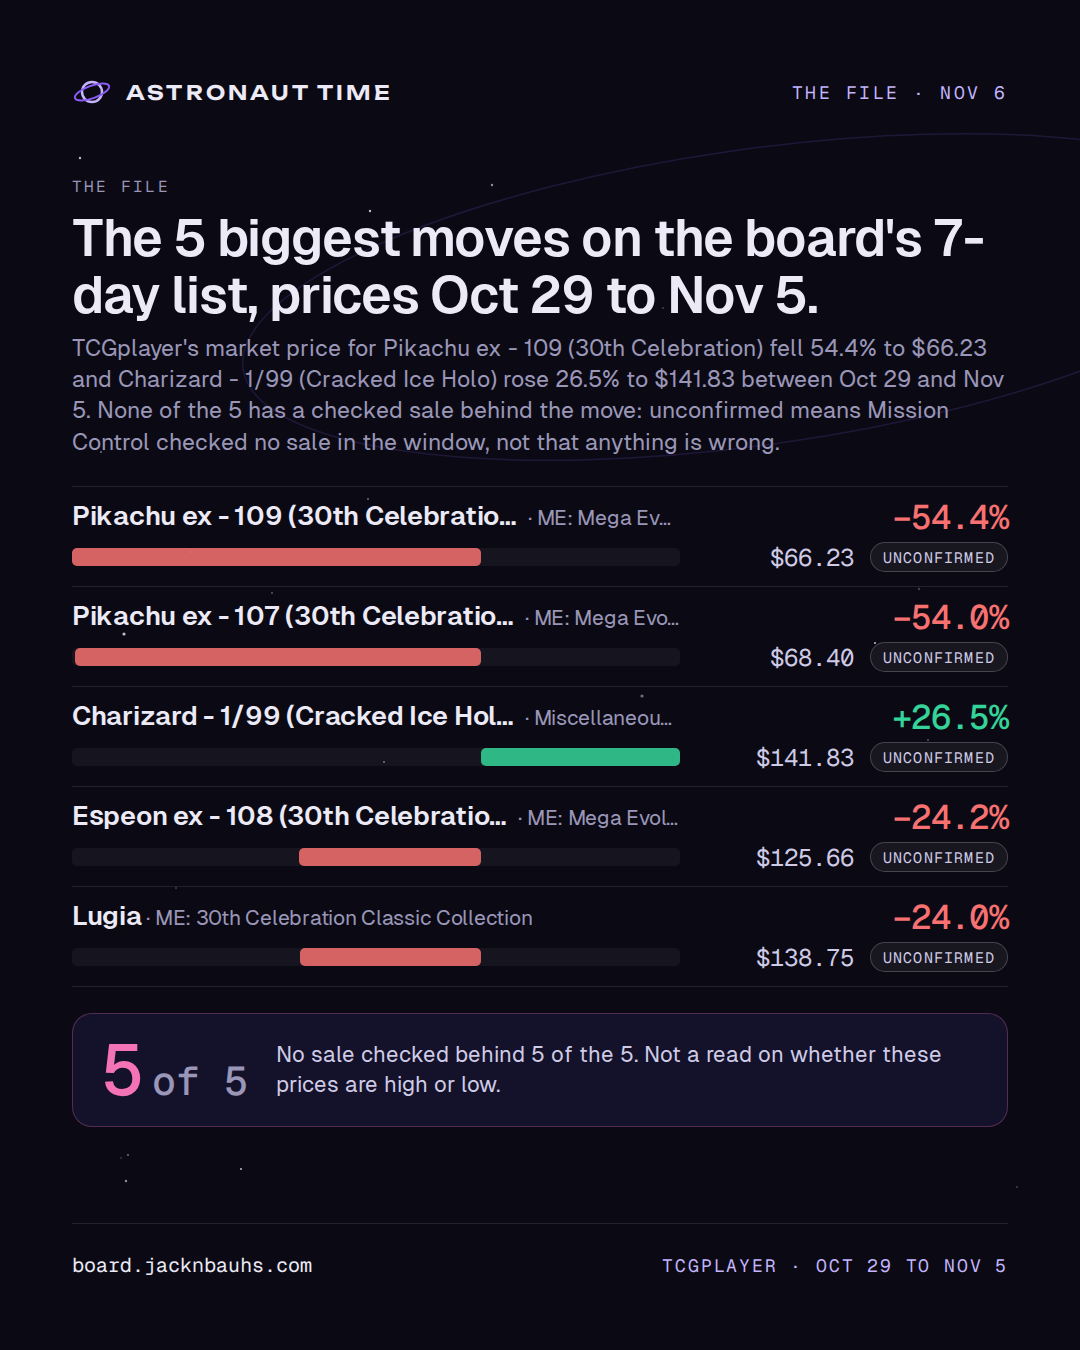
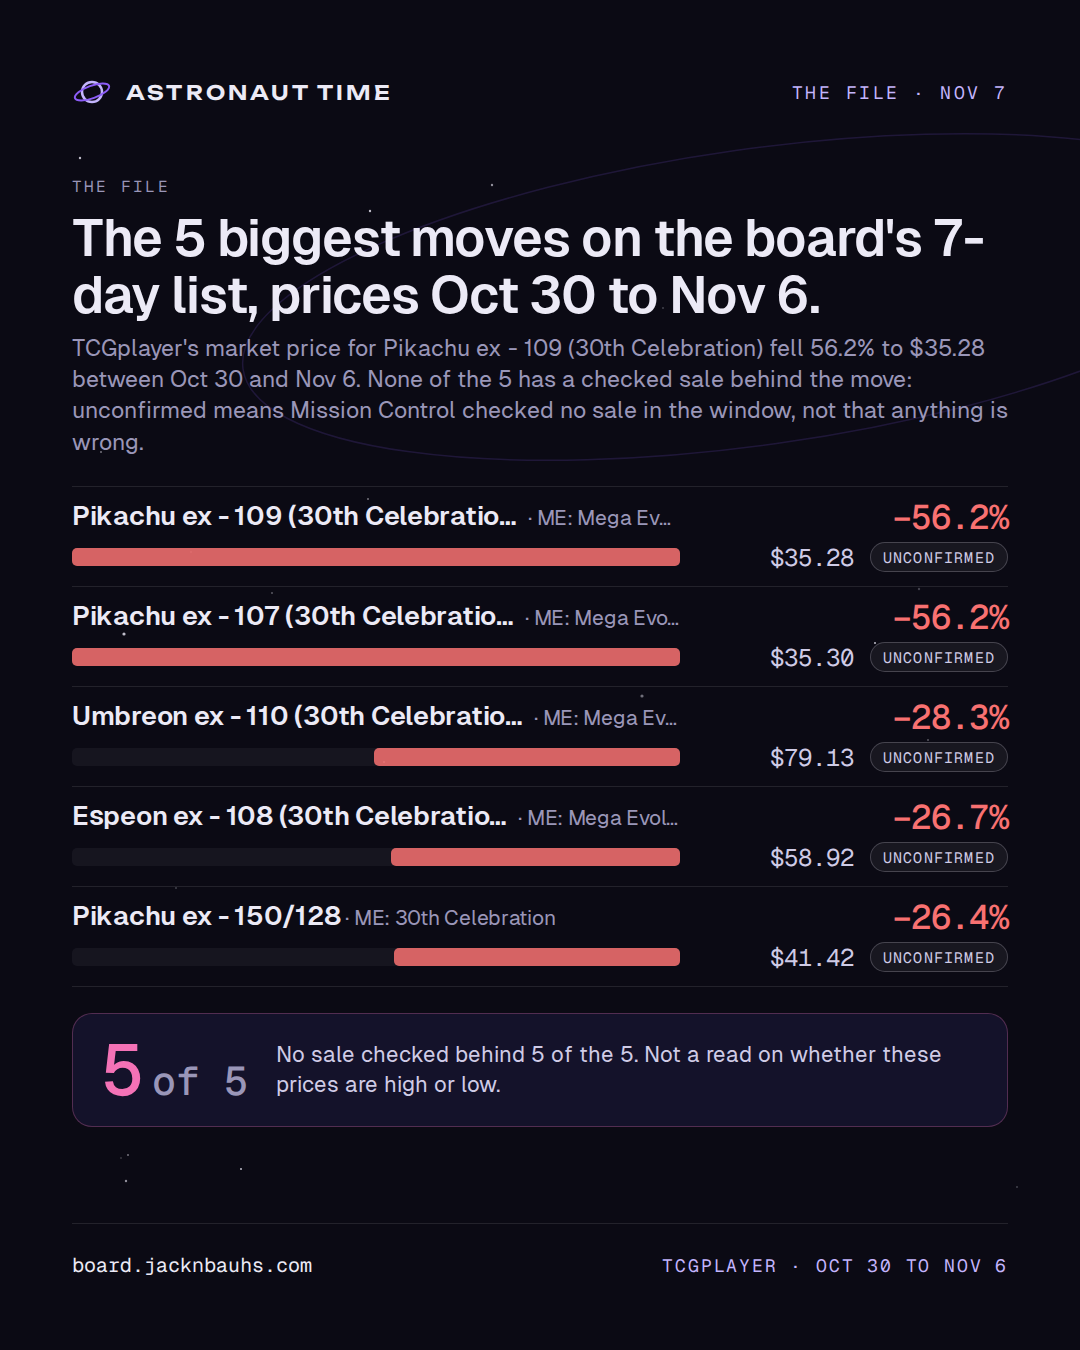
Share kit: render 2026-11-07

diff --git a/card.html b/card.html
@@ -10,14 +10,14 @@
 <meta property="og:url" content="https://board.jacknbauhs.com/card.html">
 <meta property="og:type" content="website">
 <meta property="og:site_name" content="Astronaut Time">
-<meta property="og:image" content="https://board.jacknbauhs.com/assets/og.png?v=2026-11-06">
+<meta property="og:image" content="https://board.jacknbauhs.com/assets/og.png?v=2026-11-07">
 <meta property="og:image:width" content="1200">
 <meta property="og:image:height" content="630">
 <meta property="og:image:alt" content="Mission Control by Astronaut Time: the card market, with the fake sales taken out.">
 <meta name="twitter:card" content="summary_large_image">
 <meta name="twitter:title" content="Card · Mission Control · Astronaut Time">
 <meta name="twitter:description" content="The card market, with the fake sales taken out.">
-<meta name="twitter:image" content="https://board.jacknbauhs.com/assets/og.png?v=2026-11-06">
+<meta name="twitter:image" content="https://board.jacknbauhs.com/assets/og.png?v=2026-11-07">
 <meta name="theme-color" content="#0B0A14">
 <link rel="icon" href="assets/favicon.svg" type="image/svg+xml">
 <link rel="preconnect" href="https://fonts.googleapis.com">

diff --git a/404.html b/404.html
@@ -10,14 +10,14 @@
 <meta property="og:url" content="https://board.jacknbauhs.com/">
 <meta property="og:type" content="website">
 <meta property="og:site_name" content="Astronaut Time">
-<meta property="og:image" content="https://board.jacknbauhs.com/assets/og.png?v=2026-11-06">
+<meta property="og:image" content="https://board.jacknbauhs.com/assets/og.png?v=2026-11-07">
 <meta property="og:image:width" content="1200">
 <meta property="og:image:height" content="630">
 <meta property="og:image:alt" content="Mission Control by Astronaut Time: the card market, with the fake sales taken out.">
 <meta name="twitter:card" content="summary_large_image">
 <meta name="twitter:title" content="Mission Control · Astronaut Time">
 <meta name="twitter:description" content="The card market, with the fake sales taken out.">
-<meta name="twitter:image" content="https://board.jacknbauhs.com/assets/og.png?v=2026-11-06">
+<meta name="twitter:image" content="https://board.jacknbauhs.com/assets/og.png?v=2026-11-07">
 <meta name="theme-color" content="#0B0A14">
 <link rel="icon" href="/assets/favicon.svg" type="image/svg+xml">
 <link rel="preconnect" href="https://fonts.googleapis.com">

diff --git a/index.html b/index.html
@@ -10,14 +10,14 @@
 <meta property="og:url" content="https://board.jacknbauhs.com/">
 <meta property="og:type" content="website">
 <meta property="og:site_name" content="Astronaut Time">
-<meta property="og:image" content="https://board.jacknbauhs.com/assets/og.png?v=2026-11-06">
+<meta property="og:image" content="https://board.jacknbauhs.com/assets/og.png?v=2026-11-07">
 <meta property="og:image:width" content="1200">
 <meta property="og:image:height" content="630">
 <meta property="og:image:alt" content="Mission Control by Astronaut Time: the card market, with the fake sales taken out.">
 <meta name="twitter:card" content="summary_large_image">
 <meta name="twitter:title" content="Mission Control · Astronaut Time">
 <meta name="twitter:description" content="The card market, with the fake sales taken out.">
-<meta name="twitter:image" content="https://board.jacknbauhs.com/assets/og.png?v=2026-11-06">
+<meta name="twitter:image" content="https://board.jacknbauhs.com/assets/og.png?v=2026-11-07">
 <meta name="theme-color" content="#0B0A14">
 <link rel="icon" href="assets/favicon.svg" type="image/svg+xml">
 <link rel="preconnect" href="https://fonts.googleapis.com">

diff --git a/share/out/captions.md b/share/out/captions.md
@@ -1,22 +1,22 @@
-# Captions, board data of 2026-11-06
+# Captions, board data of 2026-11-07
 
 One block per image. Caption first, alt text second. Plain facts, the source and the board link; nothing here is a buy.
 
 ## Before you post
 
-- ✅ Prices are from Nov 5, 2026.
+- ✅ Prices are from Nov 6, 2026.
 - ⚠ All 10 on the 7-day list are unconfirmed: no checked sale behind any. Keep "unconfirmed" in the post and call them price moves, not sales.
 - ⚠ All 10 on the since-yesterday list are unconfirmed: no checked sale behind any. Keep "unconfirmed" in the post and call them price moves, not sales.
 
-## file-2026-11-06-cover.png
+## file-2026-11-07-cover.png
 
-The File, Nov 6: The 5 biggest moves on the board's 7-day list, prices Oct 29 to Nov 5. TCGplayer's market price for Pikachu ex - 109 (30th Celebration) fell 54.4% to $66.23 and Charizard - 1/99 (Cracked Ice Holo) rose 26.5% to $141.83 between Oct 29 and Nov 5. None of the 5 has a checked sale behind the move: unconfirmed means Mission Control checked no sale in the window, not that anything is wrong. Pikachu ex - 109 (30th Celebration) (ME: Mega Evolution Promo): TCGplayer market price $66.23 on Nov 5, −54.4% in 7 days, unconfirmed. Pikachu ex - 107 (30th Celebration) (ME: Mega Evolution Promo): TCGplayer market price $68.40 on Nov 5, −54.0% in 7 days, unconfirmed. Charizard - 1/99 (Cracked Ice Holo) (Miscellaneous Cards & Products): TCGplayer market price $141.83 on Nov 3, +26.5% in 7 days, unconfirmed. Espeon ex - 108 (30th Celebration) (ME: Mega Evolution Promo): TCGplayer market price $125.66 on Nov 5, −24.2% in 7 days, unconfirmed. Lugia (ME: 30th Celebration Classic Collection): TCGplayer market price $138.75 on Nov 5, −24.0% in 7 days, unconfirmed. 5 of 5 moves on this File with no checked sale, or with checked sales that were flagged. Why now: Mission Control writes this File every morning from the nightly TCGplayer pull, so the board has a fresh File on the mornings no hand-written one is up (Tue, Thu and Sat are its days). What could break it: A market price is TCGplayer's average of recent completed sales of the same card, condition and printing, so one sale can move a thin card. The list's rule keeps out the moves nothing backs, not every thin one. This is not a read on whether these prices are high or low. What we're watching: Whether these moves hold on tomorrow's pull. A card drops off the list by moving less than 5% in a week, more than 60% with no checked sale, without its lowest listing moving the same way, or below $20. The next hand-written File day is Saturday, Nov 7. Unconfirmed: no checked sales speak to the move yet. Source: TCGplayer market prices via tcgcsv.com, the board's 7-day list (prices Oct 29 to Nov 5, 2026, published Nov 6). board.jacknbauhs.com
+The File, Nov 7: The 5 biggest moves on the board's 7-day list, prices Oct 30 to Nov 6. TCGplayer's market price for Pikachu ex - 109 (30th Celebration) fell 56.2% to $35.28 between Oct 30 and Nov 6. None of the 5 has a checked sale behind the move: unconfirmed means Mission Control checked no sale in the window, not that anything is wrong. Pikachu ex - 109 (30th Celebration) (ME: Mega Evolution Promo): TCGplayer market price $35.28 on Nov 6, −56.2% in 7 days, unconfirmed. Pikachu ex - 107 (30th Celebration) (ME: Mega Evolution Promo): TCGplayer market price $35.30 on Nov 6, −56.2% in 7 days, unconfirmed. Umbreon ex - 110 (30th Celebration) (ME: Mega Evolution Promo): TCGplayer market price $79.13 on Nov 6, −28.3% in 7 days, unconfirmed. Espeon ex - 108 (30th Celebration) (ME: Mega Evolution Promo): TCGplayer market price $58.92 on Nov 6, −26.7% in 7 days, unconfirmed. Pikachu ex - 150/128 (ME: 30th Celebration): TCGplayer market price $41.42 on Nov 6, −26.4% in 7 days, unconfirmed. 5 of 5 moves on this File with no checked sale, or with checked sales that were flagged. Why now: Mission Control writes this File every morning from the nightly TCGplayer pull, so the board has a fresh File on the mornings no hand-written one is up (Tue, Thu and Sat are its days). What could break it: A market price is TCGplayer's average of recent completed sales of the same card, condition and printing, so one sale can move a thin card. The list's rule keeps out the moves nothing backs, not every thin one. This is not a read on whether these prices are high or low. What we're watching: Whether these moves hold on tomorrow's pull. A card drops off the list by moving less than 5% in a week, more than 60% with no checked sale, without its lowest listing moving the same way, or below $20. The next hand-written File day is today. Unconfirmed: no checked sales speak to the move yet. Source: TCGplayer market prices via tcgcsv.com, the board's 7-day list (prices Oct 30 to Nov 6, 2026, published Nov 7). board.jacknbauhs.com
 
-Alt: The File on the Astronaut Time board: The 5 biggest moves on the board's 7-day list, prices Oct 29 to Nov 5. The biggest moves on the board's 7-day list, prices Oct 29 to Nov 5: −54.4%, in 7 days · Pikachu ex - 109 (30th Celebration). Five 7-day TCGplayer moves as bars, each with its change, price and label, and the flags tally, 5 of 5.
+Alt: The File on the Astronaut Time board: The 5 biggest moves on the board's 7-day list, prices Oct 30 to Nov 6. The biggest moves on the board's 7-day list, prices Oct 30 to Nov 6: −56.2%, in 7 days · Pikachu ex - 109 (30th Celebration). Five 7-day TCGplayer moves as bars, each with its change, price and label, and the flags tally, 5 of 5.
 
-## flags-2026-11-05-cover.png
+## flags-2026-11-06-cover.png
 
-5 of 5 moves on this File with no checked sale, or with checked sales that were flagged. Mission Control checked no sale behind 5 of the 5 moves on this File. With no checked sales, a move shows only if it's 60% or less over 7 days and TCGplayer's lowest listing moved the same way by at least a quarter as much. Pikachu ex - 109 (30th Celebration), Nov 5: $66.23, −54.4% in 7 days; no sales checked in this window. Pikachu ex - 107 (30th Celebration), Nov 5: $68.40, −54.0% in 7 days; no sales checked in this window. Charizard - 1/99 (Cracked Ice Holo), Nov 3: $141.83, +26.5% in 7 days; no sales checked in this window. Espeon ex - 108 (30th Celebration), Nov 5: $125.66, −24.2% in 7 days; no sales checked in this window. Lugia, Nov 5: $138.75, −24.0% in 7 days; no sales checked in this window. Every one is on the board with its label. Prices are TCGplayer's market price after the move. Source: TCGplayer market prices via tcgcsv.com, the board's 7-day list (prices Oct 29 to Nov 5, 2026, published Nov 6). board.jacknbauhs.com
+5 of 5 moves on this File with no checked sale, or with checked sales that were flagged. Mission Control checked no sale behind 5 of the 5 moves on this File. With no checked sales, a move shows only if it's 60% or less over 7 days and TCGplayer's lowest listing moved the same way by at least a quarter as much. Pikachu ex - 109 (30th Celebration), Nov 6: $35.28, −56.2% in 7 days; no sales checked in this window. Pikachu ex - 107 (30th Celebration), Nov 6: $35.30, −56.2% in 7 days; no sales checked in this window. Umbreon ex - 110 (30th Celebration), Nov 6: $79.13, −28.3% in 7 days; no sales checked in this window. Espeon ex - 108 (30th Celebration), Nov 6: $58.92, −26.7% in 7 days; no sales checked in this window. Pikachu ex - 150/128, Nov 6: $41.42, −26.4% in 7 days; no sales checked in this window. Every one is on the board with its label. Prices are TCGplayer's market price after the move. Source: TCGplayer market prices via tcgcsv.com, the board's 7-day list (prices Oct 30 to Nov 6, 2026, published Nov 7). board.jacknbauhs.com
 
 Alt: What we couldn't confirm: 5 of 5 moves on this File with no checked sale, or with checked sales that were flagged, all 5 listed one per line with the day, the card, the change and the TCGplayer market price after it.
 
@@ -46,6 +46,6 @@ Alt: Three calls on the record. Number 001: The 30th Celebration Booster Bundle'
 
 ## moving-2026-W45.png
 
-What's moving on TCGplayer, as of Nov 5, 2026. Ten moves of 5% or more made the list in the last 7 days. Pikachu ex - 109 (30th Celebration) (ME: Mega Evolution Promo · 109 · Holofoil): $66.23, −54.4%, unconfirmed. Pikachu ex - 107 (30th Celebration) (ME: Mega Evolution Promo · 107 · Holofoil): $68.40, −54.0%, unconfirmed. Charizard - 1/99 (Cracked Ice Holo) (Miscellaneous Cards & Products · 001/099 · Holofoil): $141.83, +26.5%, unconfirmed. Espeon ex - 108 (30th Celebration) (ME: Mega Evolution Promo · 108 · Holofoil): $125.66, −24.2%, unconfirmed. Lugia (ME: 30th Celebration Classic Collection · 149/147 · Holofoil): $138.75, −24.0%, unconfirmed. Umbreon ex - 110 (30th Celebration) (ME: Mega Evolution Promo · 110 · Holofoil): $142.75, −23.8%, unconfirmed. Blaziken V - 020/198 (Prize Pack Series Cards · 020/198 · Holofoil): $83.74, +23.1%, unconfirmed. Charizard VSTAR - 018/172 (Prize Pack Series Cards · 018/172 · Holofoil): $550, +22.3%, unconfirmed. Unconfirmed: no checked sales; shown only if ≤60%, actively traded, low listing agreed, priced within 2 days. Source: TCGplayer market prices via tcgcsv.com, as of Nov 5, 2026. board.jacknbauhs.com
+What's moving on TCGplayer, as of Nov 6, 2026. Ten moves of 5% or more made the list in the last 7 days. Pikachu ex - 109 (30th Celebration) (ME: Mega Evolution Promo · 109 · Holofoil): $35.28, −56.2%, unconfirmed. Pikachu ex - 107 (30th Celebration) (ME: Mega Evolution Promo · 107 · Holofoil): $35.30, −56.2%, unconfirmed. Umbreon ex - 110 (30th Celebration) (ME: Mega Evolution Promo · 110 · Holofoil): $79.13, −28.3%, unconfirmed. Espeon ex - 108 (30th Celebration) (ME: Mega Evolution Promo · 108 · Holofoil): $58.92, −26.7%, unconfirmed. Pikachu ex - 150/128 (ME: 30th Celebration · 150/128 · Holofoil): $41.42, −26.4%, unconfirmed. Lugia (ME: 30th Celebration Classic Collection · 149/147 · Holofoil): $136.51, −24.0%, unconfirmed. Lugia VSTAR - 139/195 (Prize Pack Series Cards · 139/195 · Holofoil): $28.66, +23.4%, unconfirmed. Rayquaza - 22/107 (2004-2005 Gym Challenge) (League & Championship Cards · 022/107): $363.72, +22.4%, unconfirmed. Unconfirmed: no checked sales; shown only if ≤60%, actively traded, low listing agreed, priced within 2 days. Source: TCGplayer market prices via tcgcsv.com, as of Nov 6, 2026. board.jacknbauhs.com
 
 Alt: What's moving: the 8 biggest of the 10 TCGplayer moves on the list in the last 7 days, each with its market price, its change and the label for what checked sales show.

diff --git a/share/out/site/squarespace.md b/share/out/site/squarespace.md
@@ -2,7 +2,7 @@
 
 ## Four tiles (one Markdown block per column, or all four in one block)
 
-[![The File: The 5 biggest moves on the board's 7-day list, prices Oct 29 to Nov 5. −54.4%: The biggest moves on the board's 7-day list, prices Oct 29 to Nov 5, in 7 days · Pikachu ex - 109 (30th Celebration). No sale checked behind 5 of the 5. Not a read on whether these prices are high or low.](https://board.jacknbauhs.com/share/out/site/tile-file.png)](https://board.jacknbauhs.com)
+[![The File: The 5 biggest moves on the board's 7-day list, prices Oct 30 to Nov 6. −56.2%: The biggest moves on the board's 7-day list, prices Oct 30 to Nov 6, in 7 days · Pikachu ex - 109 (30th Celebration). No sale checked behind 5 of the 5. Not a read on whether these prices are high or low.](https://board.jacknbauhs.com/share/out/site/tile-file.png)](https://board.jacknbauhs.com)
 
 [![What we couldn't confirm: 5 of 5 moves on this File with no checked sale, or with checked sales that were flagged, each labeled with the reason.](https://board.jacknbauhs.com/share/out/site/tile-flags.png)](https://board.jacknbauhs.com)
 
